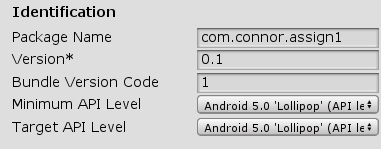
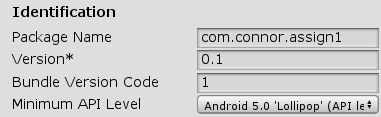
edited build steps and photos

diff --git a/troubleshooting.html b/troubleshooting.html
@@ -116,7 +116,8 @@
               <p> Click <b>Player Settings</b>. </p>
               <img src="images/playerSettings.png">
               <ul>
-                <li> Android Target API should be 5.0 Lollipop. </li>
+                <li> Android Minimum API should be "5.0 Lollipop." </li>
+                <li> Android Target API should be "Highest Installed." </li>
                 <li> Your package name should be "com.[yourname].[assignmentname]" </li>
                 <li><img src="images/apiLevel.png"></li>
                 <li> Your .NET Scripting Runtime should be 3.5 not 4. </li>
@@ -130,7 +131,33 @@
       </div>
     </section>
 
-    <section id="buildSettings">
+    <section id="buildToGo">
+      <div class="container">
+        <div class="row align-items-center">
+          <div class="col-lg-12 order-lg-1">
+              <h2 class="display-5">
+                How to Build to the Oculus Go
+              </h2>
+              <ol>
+                <p> Plug in your Oculus Go. </p>
+                <p> Turn and put your Oculus Go on and hold the Oculus button to unlock it. </p>
+                <p> Point and click "Always Trust This Computer" and click "Enable USB Debugging." </p>
+                <p> Ensure your build settings are correct, as <a href="#buildSettings">above.</a> </p>
+                <p> Ensure the scene you are working on is the first in the list of Scenes in your build settings. Also make sure your package name is not "com.oculus.Sample."</p>
+                <p> Click "Build and Run." </p>
+                <p> You can create a new folder called "Builds" and click into it. You can name your file "main.apk" or "beat-saber.apk". </p>
+                <p> Click Ok and wait for Unity to build. </p>
+                <p> Put your Go on and hold the Oculus button to unlock it. Your experience should start automatically. </p>
+                <p> If it does not start, click on the Oculus button to go to the Oculus Home. </p>
+                <p> Select "Library" then "Unknown Sources" and look for the package name that you put into Unity. </p>
+
+              </ol>
+          </div>
+        </div>
+      </div>
+    </section>
+
+    <section id="unity20183">
       <div class="container">
         <div class="row align-items-center">
           <div class="col-lg-12 order-lg-1">
